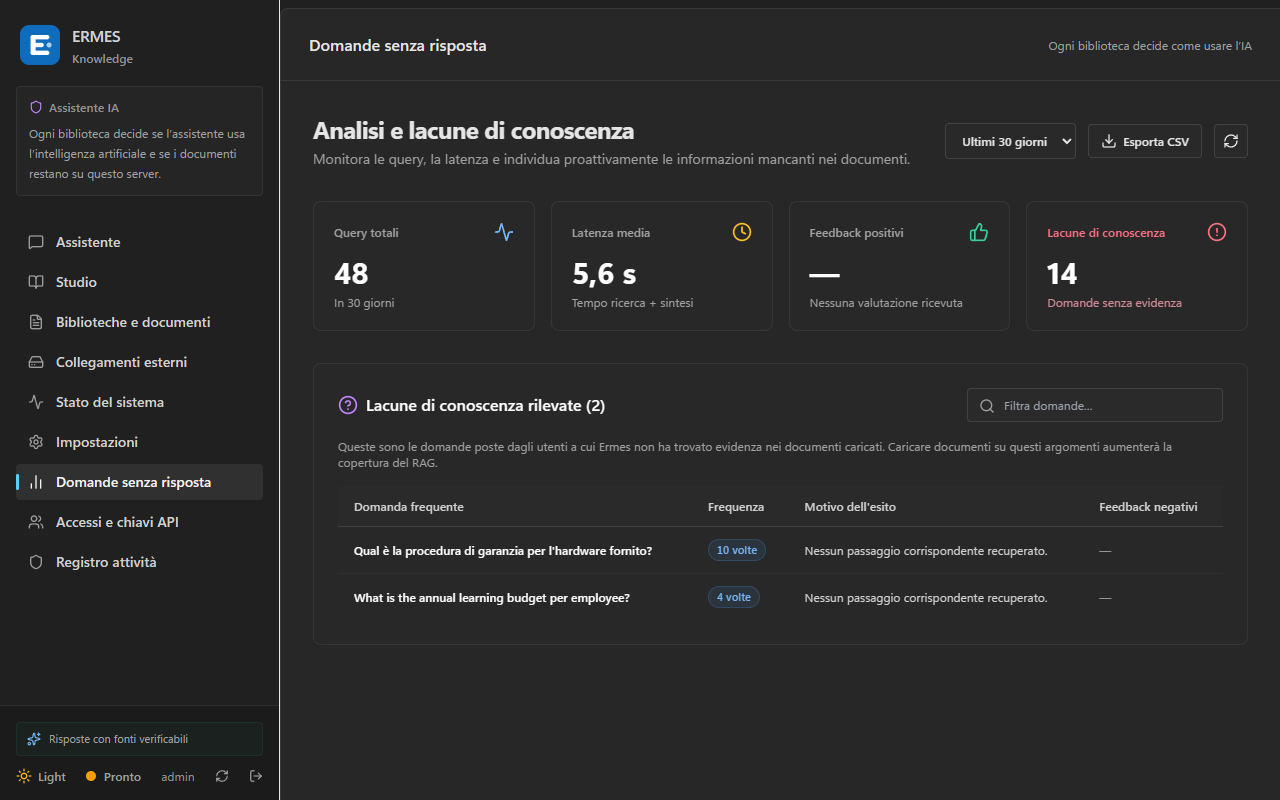
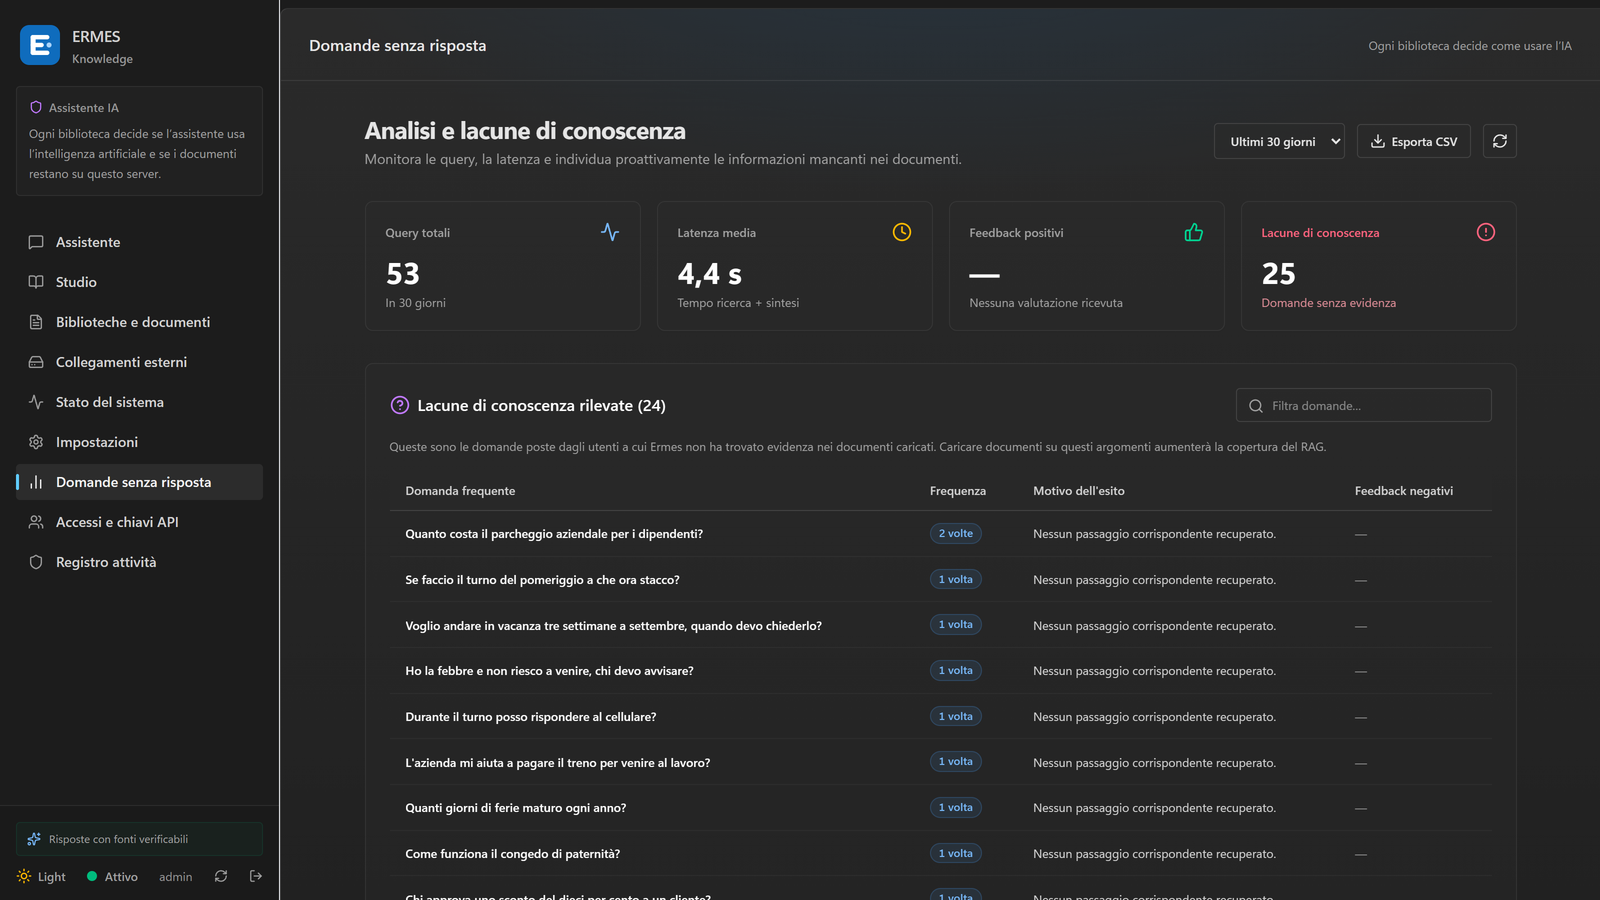
docs(readme): new screenshots and demo animation from a real instance with Italian SME documents

diff --git a/README.md b/README.md
@@ -24,7 +24,7 @@
   <a href="docs/DESCRIZIONE_PROGETTO.md"><b>Italiano</b></a>
 </p>
 
-<img src="docs/assets/demo.gif" alt="Ermes in use: sign in, ask a question that is answered with a cited source, ask one the documents cannot answer and get an honest refusal, browse libraries, switch to the light theme" width="860" />
+<img src="docs/assets/demo.gif" alt="Ermes in use with sample company documents in Italian: sign in, an answer with its cited source, the original PDF at the cited page, an honest refusal, review dates, a version comparison and the questions no document could answer" width="860" />
 
 </div>
 
@@ -55,12 +55,12 @@ passage it relied on. When the documents do not support an answer, Ermes **says 
 <td width="50%"><img src="docs/screenshots/abstention-dark.png" alt="Honest refusal when the documents do not contain the answer" /><br/><sub><b>Honest refusal</b> — no passage supports it, so Ermes says so and suggests what to do.</sub></td>
 </tr>
 <tr>
-<td><img src="docs/screenshots/citation-dark.png" alt="Citation inspector" /><br/><sub><b>Citation inspector</b> — the supporting passage, copy or download the original.</sub></td>
+<td><img src="docs/screenshots/citation-dark.png" alt="Citation opened in the original PDF at the cited page" /><br/><sub><b>Citation inspector</b> — the supporting passage, and the original PDF opened at the cited page.</sub></td>
 <td><img src="docs/screenshots/knowledge-gaps-dark.png" alt="Questions the documents could not answer" /><br/><sub><b>Knowledge gaps</b> — the questions nobody could answer show you which documents are missing.</sub></td>
 </tr>
 <tr>
-<td><img src="docs/screenshots/libraries-light.png" alt="Libraries and documents, light theme" /><br/><sub><b>Libraries</b> — separate boundaries, each with its own collaborators and assistant policy. Light theme shown.</sub></td>
-<td><img src="docs/screenshots/studio-dark.png" alt="Studio: briefing, FAQ, study guide" /><br/><sub><b>Studio</b> — briefing, FAQ, study guide and suggested questions, every point tied to a source.</sub></td>
+<td><img src="docs/screenshots/libraries-light.png" alt="Libraries of a small company, with review dates" /><br/><sub><b>Libraries and review dates</b> — one library per department; procedures and certificates show when their review is overdue (red) or due soon (amber).</sub></td>
+<td><img src="docs/screenshots/versions-light.png" alt="Comparing two versions of a document" /><br/><sub><b>Version history</b> — every upload is a new version; compare any two section by section and restore an old one.</sub></td>
 </tr>
 <tr>
 <td><img src="docs/screenshots/audit-light.png" alt="Audit log with verified hash chain" /><br/><sub><b>Audit log</b> — every entry is hash-chained and signed; the interface verifies the chain and reports tampering.</sub></td>

diff --git a/CHANGELOG.md b/CHANGELOG.md
@@ -2,6 +2,10 @@
 
 Registro leggibile del lavoro su questo progetto. Per i finding tecnici completi, [docs/AUDIT_2026-08-19.md](docs/AUDIT_2026-08-19.md) e [docs/CODE_REVIEW.md](docs/CODE_REVIEW.md). La roadmap per fasi e il registro delle sessioni (`ROADMAP_V2.md`, `WORK_PROGRESS.md`) sono stati tolti dall'albero pubblico il 18 settembre 2026: la cronologia Git li conserva.
 
+## 2026-10-30 (5) — README con le schermate e l'animazione nuove
+
+Le immagini della pagina principale erano del 17 ottobre (stile precedente, dati in inglese). Ora vengono da un'istanza vera con documenti dimostrativi in italiano di una PMI fittizia: risposta con fonte, PDF aperto alla pagina citata, rifiuto onesto, revisioni in scadenza, confronto tra versioni, domande senza risposta, registro di audit, stato del sistema. La schermata di Studio (vuota senza IA generativa) e' sostituita dal confronto tra versioni; tolte quattro immagini non piu' usate. Animazione rifatta: 599 KB invece di 808.
+
 ## v2.5.0 — Pensato per le PMI, controllato su un'istanza vera
 
 Raccoglie le voci dal 23 al 30 ottobre qui sotto. In sintesi: scelta del modello in installazione, permessi ereditati da SharePoint/OneDrive e Google Drive, email `.eml` con allegati, confronto tra versioni dei documenti, date di revisione, una suite di 178 domande sulle PMI; dashboard di Grafana che conta nel periodo scelto, stato del sistema che vede un Ollama senza modelli, report che stampa davvero, versioni precedenti mai trattate come orfane; test isolati dai dati e dal `.env` di chi sviluppa; avvio pulito di Docker Desktop su Windows; aggiornamenti di sicurezza (0 avvisi aperti).
